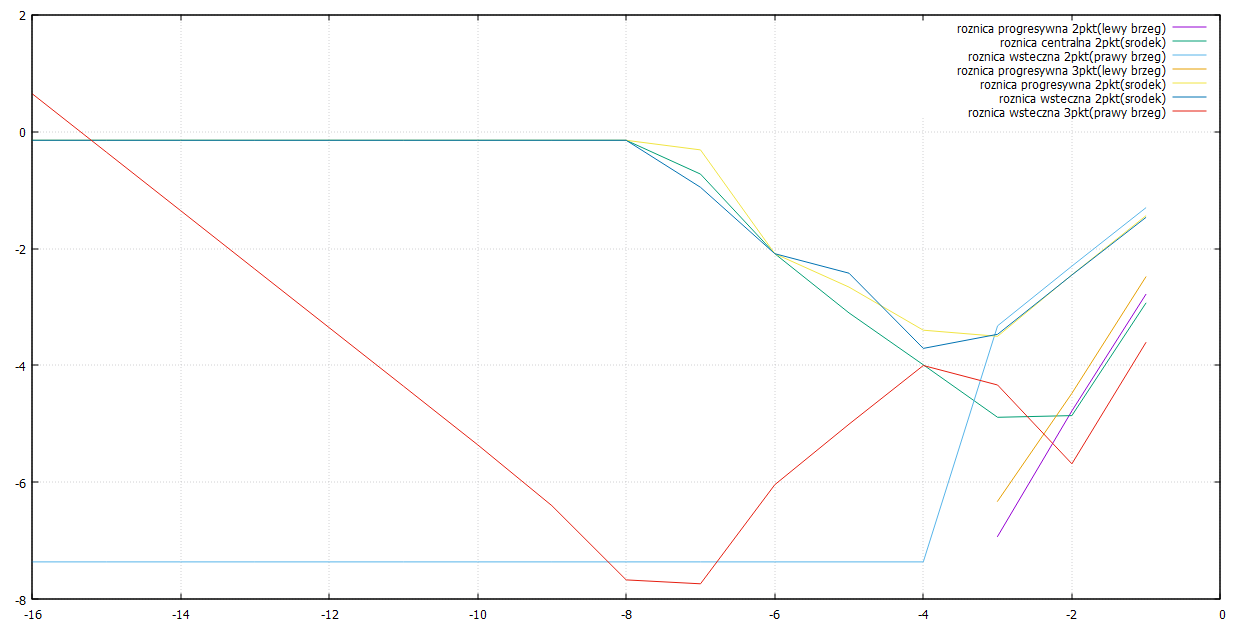
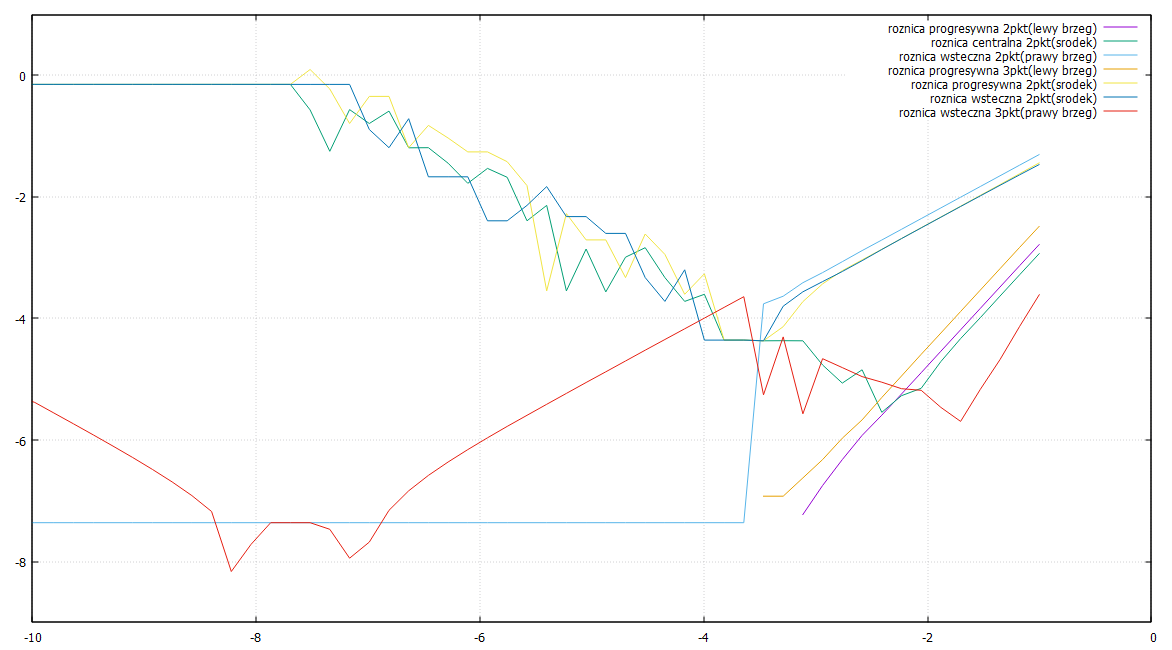
lab8 fix2

diff --git a/lab8/lab8.cpp b/lab8/lab8.cpp
@@ -4,7 +4,7 @@
 
 using namespace std;
 
-#define N_MAX 30
+#define N_MAX 100
 
 string nazwa(int i) {
     switch (i)
@@ -73,7 +73,7 @@ T roznica_wsteczna_3pkt(T x, T h) {
 
 template<typename T>
 T **oblicz(T** tablica) {
-    T** talibca_bledow = new T*[N_MAX];    // Tablica przechowujaca bledy w kolejnych iteracjach
+    T** tablica_bledow = new T*[N_MAX];    // Tablica przechowujaca bledy w kolejnych iteracjach
     T h = 0.1;    // Pierwszy krok
 
     // Przedzial [a, b] gdzie mid to srodek
@@ -82,43 +82,43 @@ T **oblicz(T** tablica) {
     T mid = (a + b) / 2.0;
 
     for (int i = 0; i < N_MAX; ++i) {
-        tablica[i] = new T[8];           // Stworzenie wiersza na wyniki
-        talibca_bledow[i] = new T[8];    // Stworzenie wiersza na bledy
+        tablica[i] = new T[8];           
+        tablica_bledow[i] = new T[8];    
 
         tablica[i][0] = roznica_progresywna_2pkt(a, h);
-        talibca_bledow[i][0] = fabs(pochodna_f(a) - tablica[i][0]);
+        tablica_bledow[i][0] = fabs(pochodna_f(a) - tablica[i][0]);
 
         tablica[i][1] = roznica_centralna_2pkt(mid, h);
-        talibca_bledow[i][1] = fabs(pochodna_f(mid) - tablica[i][1]);
+        tablica_bledow[i][1] = fabs(pochodna_f(mid) - tablica[i][1]);
 
         tablica[i][2] = roznica_wsteczna_2pkt(b, h);
-        talibca_bledow[i][2] = fabs(pochodna_f(b) - tablica[i][2]);
+        tablica_bledow[i][2] = fabs(pochodna_f(b) - tablica[i][2]);
 
         tablica[i][3] = roznica_progresywna_3pkt(a, h);
-        talibca_bledow[i][3] = fabs(pochodna_f(a) - tablica[i][3]);
+        tablica_bledow[i][3] = fabs(pochodna_f(a) - tablica[i][3]);
 
         tablica[i][4] = roznica_progresywna_2pkt(mid, h);
-        talibca_bledow[i][4] = fabs(pochodna_f(mid) - tablica[i][4]);
+        tablica_bledow[i][4] = fabs(pochodna_f(mid) - tablica[i][4]);
 
         tablica[i][5] = roznica_wsteczna_2pkt(mid, h);
-        talibca_bledow[i][5] = fabs(pochodna_f(mid) - tablica[i][5]);
+        tablica_bledow[i][5] = fabs(pochodna_f(mid) - tablica[i][5]);
 
         tablica[i][6] = roznica_wsteczna_3pkt(b, h);
-        talibca_bledow[i][6] = fabs(pochodna_f(b) - tablica[i][6]);
+        tablica_bledow[i][6] = fabs(pochodna_f(b) - tablica[i][6]);
 
-        talibca_bledow[i][7] = h;
+        tablica_bledow[i][7] = h;
 
-        h *= 0.1;    
+        h /= 1.5;    
     }
 
     cout << endl << "Rzedy dokladnosci: " << endl;
     for (int i = 0; i < 7; i++) {
         cout << nazwa(i) << ": ";
-        cout << (log10(talibca_bledow[1][i]) - log10(talibca_bledow[0][i])) /
-                (log10(talibca_bledow[1][7]) - log10(talibca_bledow[0][7])) <<  endl;
+        cout << (log10(tablica_bledow[1][i]) - log10(tablica_bledow[0][i])) /
+                (log10(tablica_bledow[1][7]) - log10(tablica_bledow[0][7])) <<  endl;
     }
     cout <<  endl;
-    return talibca_bledow;
+    return tablica_bledow;
 }
 
 template<typename T>
